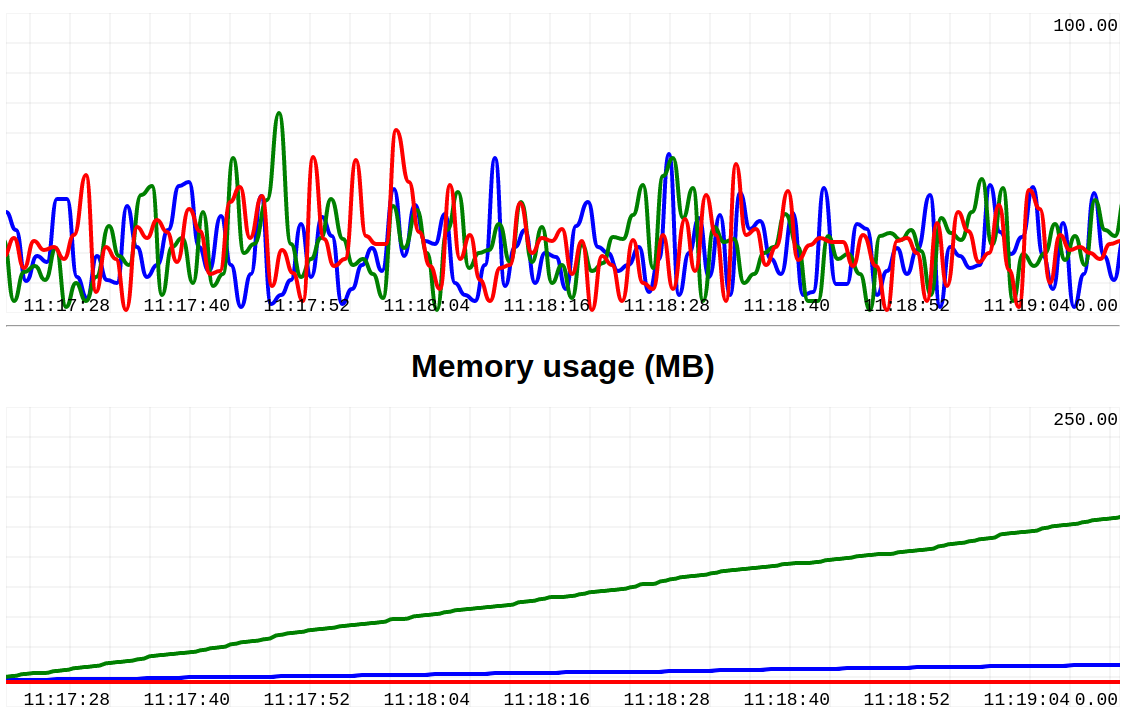
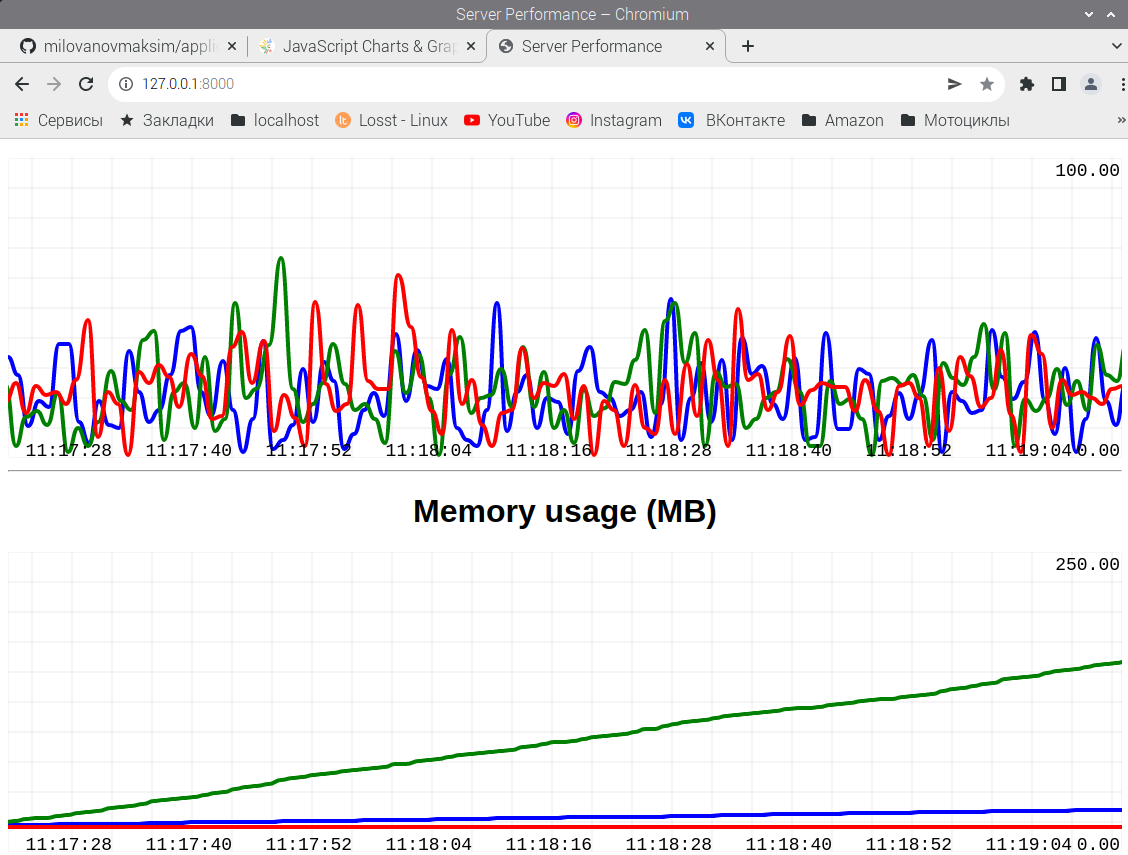
update readme file

diff --git a/README.md b/README.md
@@ -22,6 +22,6 @@
 Каждая будет обозначена своим цветом, который указан в командной строке:<br>
 **python backend_app.py --color red &**<br>
 **python backend_app.py --color blue --leak 10000 &**<br>
-**python backend_app.py --color green --leak 100000 &**<br>
-
+**python backend_app.py --color green --leak 100000 &**<br><br>
+На картинке представлен результат работы приложения в окне браузера<br>
 ![My Image](grah.png)
